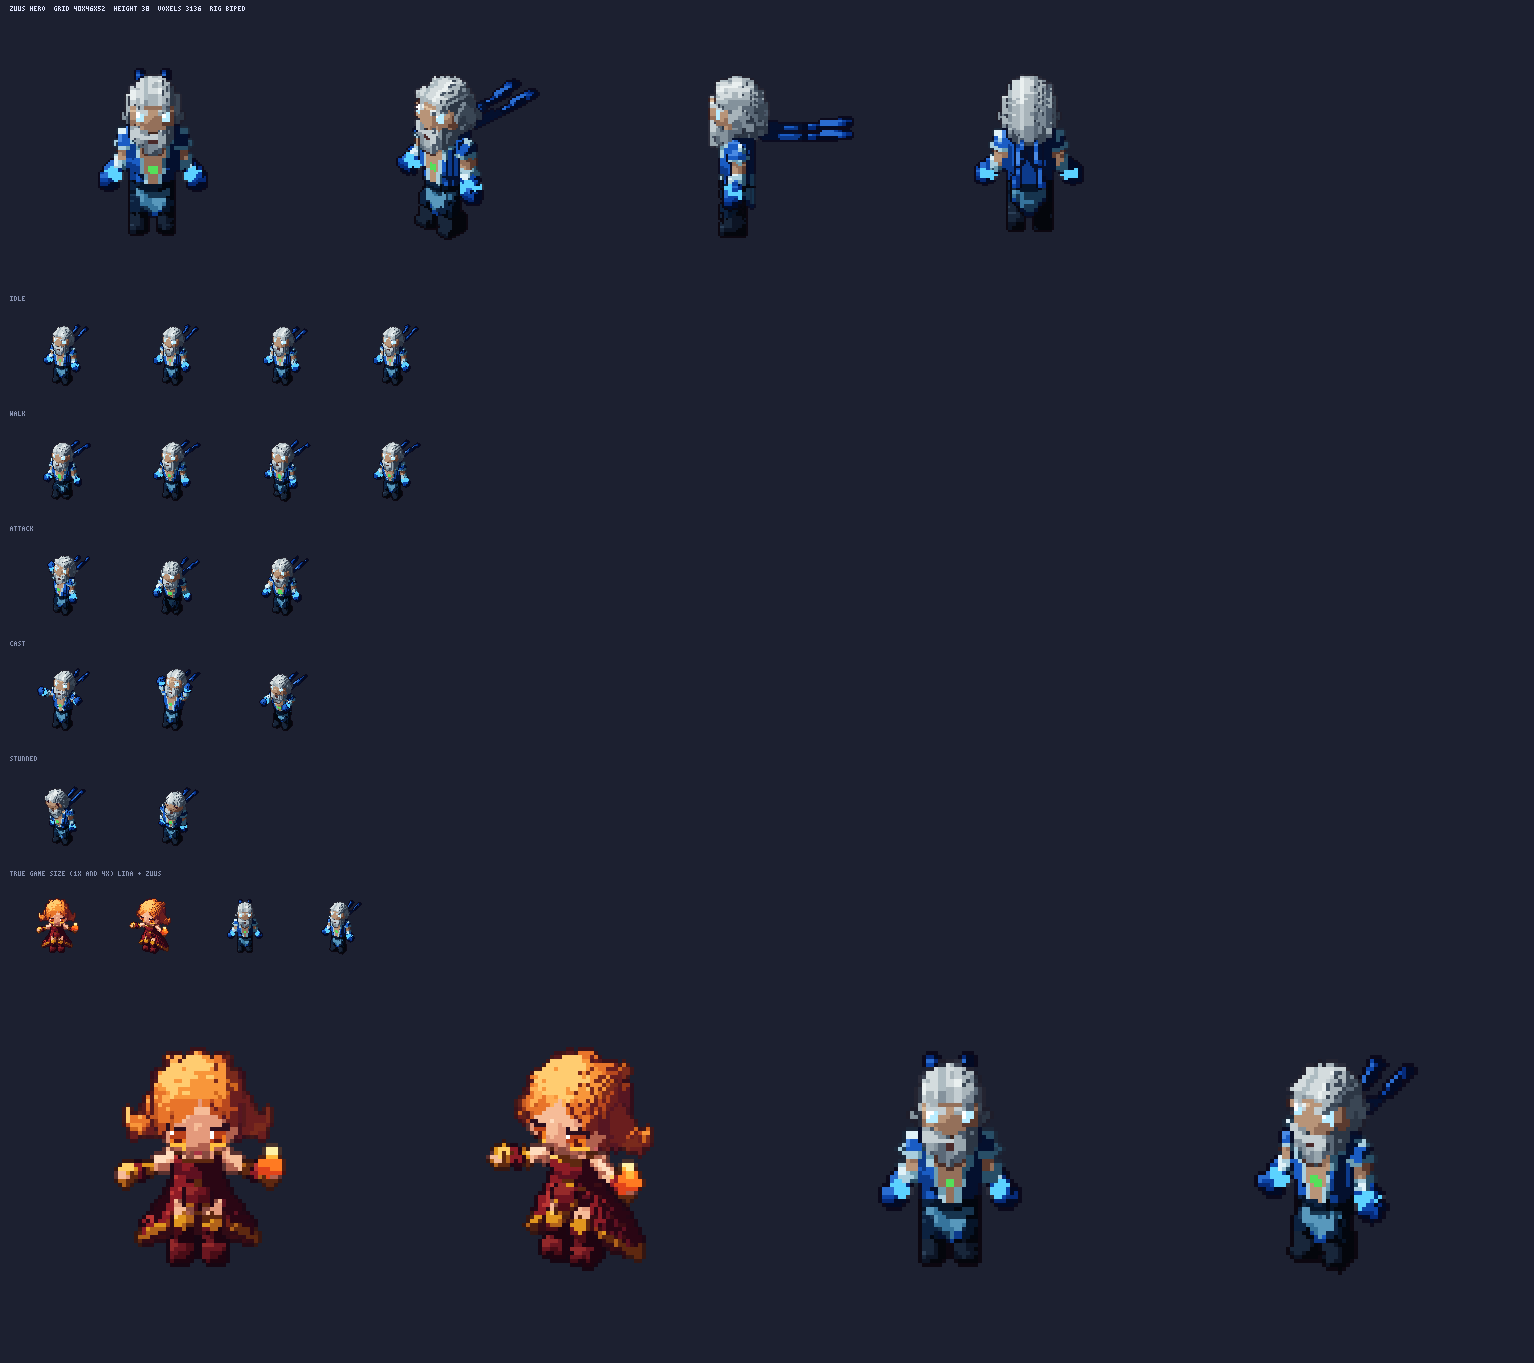
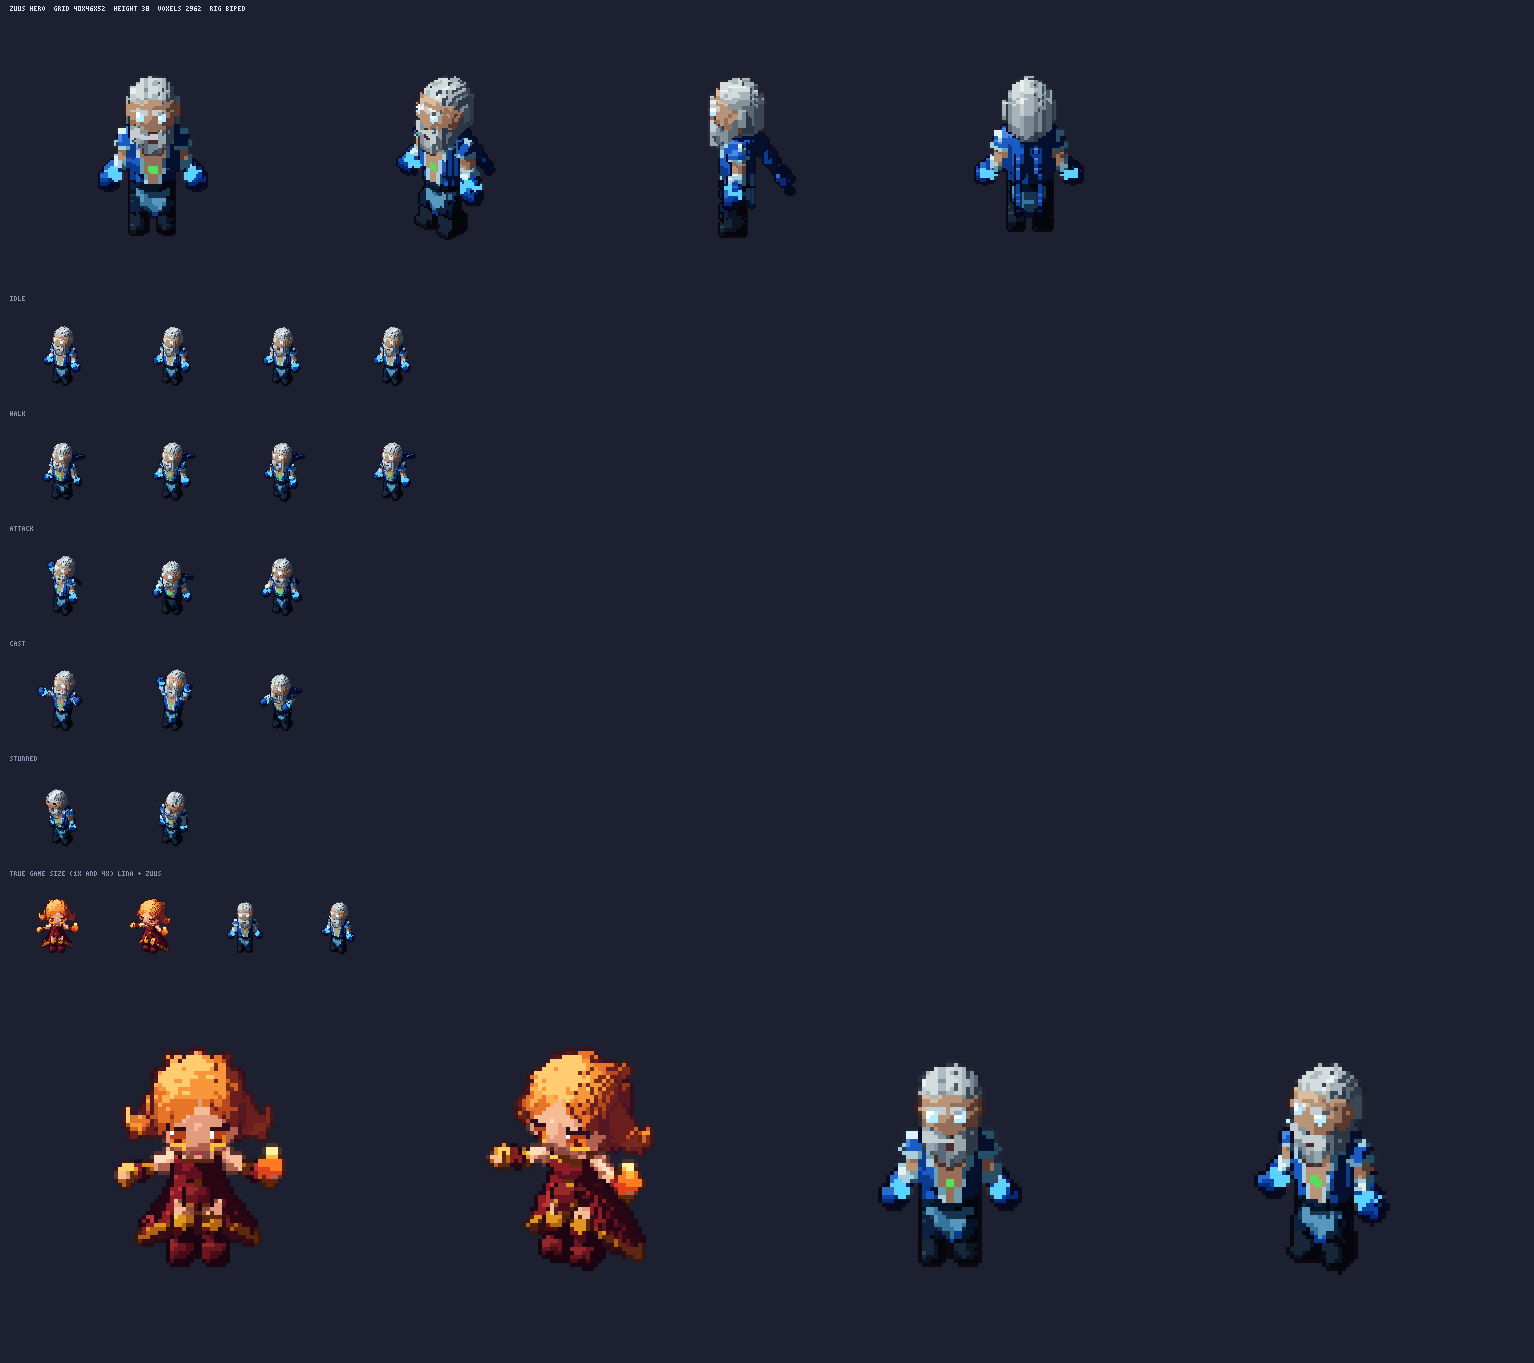
Zeus review fixes: streamers drape back and down (lift to trail in motion), thinner hair cap with a wider face window, both eyes visible in the portrait; feet() resolves a function material

diff --git a/client/src/art/portraits/zuus.js b/client/src/art/portraits/zuus.js
@@ -1,7 +1,7 @@
 // GENERATED by tools/vox/portrait.mjs (zuus) -- do not edit by hand. Voxel HUD portrait 32x42 (= the 32x42 the HUD shows, 1 art px = 1 u), opaque.
 // Loaded by client/src/art/portraits.js, which swaps it into the sheet's 'portrait' frame unless ?vox=0.
 export default {
-  pal: { '0':'#0b091b', '1':'#04102e', '2':'#242431', '3':'#7a8894', '4':'#a8b4ba', '5':'#48a4c7', '6':'#5cd2ff', '7':'#c4ced2', '8':'#1e1d2a', '9':'#b8ecff', '!':'#121415', '#':'#181e21', '$':'#23343b', '%':'#5a3a2e', '&':'#0c3a8c', '(':'#94705a', ')':'#284e66', '*':'#98a6ae', '+':'#5a6876', ',':'#3a4654', '-':'#4a5868', '/':'#6c9cb0', ':':'#1a5cc4', ';':'#1c2839', '<':'#345866', '=':'#c8d8ce', '>':'#b89478', '?':'#321e20', '@':'#0c0c20', 'A':'#a8cede', 'B':'#506986', 'C':'#092d6d', 'D':'#2b2c3a', 'E':'#aab7b8', 'F':'#ddd8bd', 'G':'#2c3644', 'H':'#02081c', 'I':'#a9beed', 'J':'#97a4a6', 'K':'#849fa6', 'L':'#54e05a', 'M':'#462d24', 'N':'#6e8ca5', 'O':'#090715', 'P':'#8a9698', 'Q':'#9c8976', 'R':'#6796f1', 'S':'#093583', 'T':'#1f3d50', 'U':'#97afe0', 'V':'#ffffff', 'W':'#7a8789', 'X':'#9bc2dd', 'Y':'#aeafce', 'Z':'#020a24', '[':'#030c24', ']':'#05101f', '^':'#84929c', '_':'#dae6db', 'a':'#b4c7f6', 'b':'#8db4d4', 'c':'#4a2a2a', 'd':'#dff0e6', 'e':'#5988e7', 'f':'#456ab4', 'g':'#5072b6', 'h':'#22232f', 'i':'#090919', 'j':'#547a89', 'k':'#02050b', 'l':'#e3efe3', 'm':'#becbc9', 'n':'#eaf0f0', 'o':'#3b313c', 'p':'#3e261e', 'q':'#afc8fb', 'r':'#0c44a8', 's':'#7997ac', 't':'#2b2d3c', 'u':'#485f7c', 'v':'#3e5269', 'w':'#384a61', 'x':'#697a7b', 'y':'#09050d', 'z':'#05215e', '{':'#010308', '|':'#99b0e2', '}':'#a6b5b5', '~':'#b6c9f8', '¡':'#abc0ef', '¢':'#b2c5f4', '£':'#93aadc', '¤':'#5c8be8', '¥':'#4d7cbe', '¦':'#5c8ae5', '§':'#062a78', '¨':'#a3b8e8', '©':'#b1cafb', 'ª':'#b0c9fb', '«':'#02060e', '¬':'#4569af', '®':'#072862', '¯':'#367a94', '°':'#2f4164', '±':'#354043', '²':'#06040a', '³':'#334e82', '´':'#060510' },
+  pal: { '0':'#4a5868', '1':'#3a4654', '2':'#242431', '3':'#321e20', '4':'#48a4c7', '5':'#a8b4ba', '6':'#5cd2ff', '7':'#345866', '8':'#9c8976', '9':'#ddd8bd', '!':'#121415', '#':'#181e21', '$':'#23343b', '%':'#5a3a2e', '&':'#94705a', '(':'#0c3a8c', ')':'#284e66', '*':'#98a6ae', '+':'#5a6876', ',':'#6c9cb0', '-':'#04102e', '/':'#b89478', ':':'#1c2839', ';':'#0b091b', '<':'#c4ced2', '=':'#a8cede', '>':'#506986', '?':'#092d6d', '@':'#02081c', 'A':'#2b2c3a', 'B':'#97a4a6', 'C':'#1e1d2a', 'D':'#0c0c20', 'E':'#1a5cc4', 'F':'#2c3644', 'G':'#090715', 'H':'#aab7b8', 'I':'#a9beed', 'J':'#ffffff', 'K':'#b8ecff', 'L':'#c8d8ce', 'M':'#849fa6', 'N':'#54e05a', 'O':'#462d24', 'P':'#6e8ca5', 'Q':'#020a24', 'R':'#093583', 'S':'#1f3d50', 'T':'#7a8894', 'U':'#6796f1', 'V':'#9bc2dd', 'W':'#aeafce', 'X':'#030c24', 'Y':'#05101f', 'Z':'#dae6db', '[':'#b4c7f6', ']':'#97afe0', '^':'#7a8789', '_':'#4a2a2a', 'a':'#dff0e6', 'b':'#8db4d4', 'c':'#5988e7', 'd':'#456ab4', 'e':'#5072b6', 'f':'#22232f', 'g':'#547a89', 'h':'#02050b', 'i':'#aabfee', 'j':'#b6c9f8', 'k':'#3e261e', 'l':'#afc8fb', 'm':'#0c44a8', 'n':'#7997ac', 'o':'#485f7c', 'p':'#3e5269', 'q':'#384a61', 'r':'#090919', 's':'#697a7b', 't':'#09050d', 'u':'#05215e', 'v':'#010308', 'w':'#abc0ef', 'x':'#84929c', 'y':'#e3efe3', 'z':'#b0c9fb', '{':'#2b2d3c', '|':'#02060e', '}':'#4569af', '~':'#072862', '¡':'#367a94', '¢':'#2f4164', '£':'#354043', '¤':'#06040a', '¥':'#334e82', '¦':'#060510' },
   face: [4, 11, 24, 24],
   rows: [
     '!!!!!!!!!!!#!#!#!#######!#!#!!!!',
@@ -10,41 +10,41 @@ export default {
     '!!!!#!#!######$#$#$#$#$#$######!',
     '!!!!!!!#!######$#$#$#$#$######!#',
     '!!!!!!#!####$#$$$$$$$$$$$#$#####',
-    '!!!!!#!#!####88222D$$$$$$$#$####',
-    '!!!!#!####$#8|}EEElD<$<$<$$#$###',
-    '!!!!!!!#!##22U^^+E_DD<$<$$$$####',
-    '!!#!#!####2I4443+EEml22$<$$$$#$#',
-    '!!!!!#!##DI44443+33EmP_2$<$$#$##',
-    '!!!!####D~n77433+33,-PP_2$$$$#$#',
-    '!!!!!#!#2an77333+3%%-,P=8$$$#$##',
-    '!!#!#!#2¡47*-3,3(%%%%,P=8$<$$#$#',
-    '!!!!!#!2I47((*****(%%-JF?<$$#$##',
-    '!!!!##2I444((VV9(((%%%9F?$$$$#$#',
-    '!!!!!#!2I44>(VV9(((%%%99o$$$####',
-    '!!#!#!#2U33>(999((%%%%99o$$$$#$#',
-    '!!!!!#2I^+(>((((((%%%%QF8$#$#$##',
-    '!!!!#!8U++>(((((((%%%%WQ=8$#$###',
-    '!!!!!!8U++>((*((%%%%%%W=8$#$####',
-    '!!!000D¢£+7**7*+++pp-JW=8#$#####',
-    '!!0¤¥b0@a-7**7****----J=8$####!#',
-    '!!!00¦§::¨a7******----J=;######!',
-    '!!!!!;©:RR77***+++ccc-J=d@##!#!#',
-    '!!!!!;ªAA::*-**G++,,,-W=BX@##!#!',
-    '!!!!!@R:&:&/**GG++,,,-G)BX@#!#!!',
-    '!!!!@R::&&&//*GG++,,,-)1BBX@#!#!',
-    '!!!!;R:&&&&&&/%%+G,,,J)1)Kd;!!!!',
-    '!!!;qAA////&&/%%%,,,%%)1)F?!!!!!',
-    '!!!!;?Y/(1&&&/%%%,,%%%)1QF?!!!!!',
-    '!!!!?Y>((1&&&/%%%%%%%)B1QF?!#!!!',
-    '!!!!?Y>((&&&&&))%%%%%)B1QF;!!!!!',
-    '!!!!;Y>>(&&&&&))%%%%%)B1KKd0!!!!',
-    '!!!;qAA//&&&&&))%LL%%)B1)KKb0!!!',
-    '!!!0eA///&&&&&))%LL%%)11))K6b0!!',
-    '!!00eA/))&&&&&))%LL%))11)Z66600!',
-    '!0fr665Z)1[&&&[))%M))1st66566uN0',
-    '!OeS656N@g1C&C1T)M%T)vXh6565ZwuN',
-    '!O5SS555ig[CCC[jjMMTTvsih555HHwN',
-    '0fSSr555tigC&CCj/MMT«xy!!O¬HZHNO',
-    'Of®zzH¯h!y°k]]{]]k{k±x²!!O³HHN´!'
+    '!!!!!#!#!####$#2$$$$$$$$$$#$####',
+    '!!!!#!####$#$$2w222$7$7$7$$#$###',
+    '!!!!!!!#!##222iHHHZA$7$7$$$$####',
+    '!!#!#!####2i55x+5HHyA27$7$$$$#$#',
+    '!!!!!#!##AI55555+THBBZ27$7$$#$##',
+    '!!!!####Aj<555TT&&&&8Z377$$$$#$#',
+    '!!!!!#!#Aj</55T&&&&%8893$$$$#$##',
+    '!!#!#!#A[<<//&&&&&&%%8893$7$$#$#',
+    '!!!!!#!2I5/&&*****&0008937$$#$##',
+    '!!!!###2I//&&JJK&&&%%J893$$$$#$#',
+    '!!!!!#!2I///&JJK&&&%%J893$$$####',
+    '!!#!#!#2I&&/&KKK&&%%%K893$$$$#$#',
+    '!!!!!#!2I+&/&&&&&&%%%%893$#$#$##',
+    '!!!!#!#C]+/&&&&&&&%%%%^93$$#$###',
+    '!!!!!!!C]+/&&*&&%%%%%%LC#$#$####',
+    '!!!!!!#C]+<**<*+++kk0B^LC#$#####',
+    '!!!!!!!#CA[**<****0000BLC$####!#',
+    '!!!!#!#!#D[<******0000BL:######!',
+    '!!!!!!:::U<<***+++___0BLaD##!#!#',
+    '!!!!!:z==EE*0**F++1110^L>VD##!#!',
+    '!!!!!DUE(E(,**FF++1110F)>VD#!#!!',
+    '!!!!DUEE(((,,*FF++1110)->>VD#!#!',
+    '!!!!:UE((((((,%%+F111B)-)Ma:!!!!',
+    '!!!:l==,,,,((,%%%111%%)-)93!!!!!',
+    '!!!!:3W,&-(((,%%%11%%%)-893!!!!!',
+    '!!!!3W/&&-(((,%%%%%%%)>-893!#!!!',
+    '!!!!3W/&&((((())%%%%%)>-89:!!!!!',
+    '!!!!:W//&((((())%%%%%)>-MMa;!!!!',
+    '!!!:l==,,((((())%NN%%)>-)MMb;!!!',
+    '!!!;c=,,,((((())%NN%%)--))M6b;!!',
+    '!!;;c=,))((((())%NN%))--)Q666;;!',
+    '!;dm664Q)-X(((X))%O))-n{66466oP;',
+    '!GcR646PQe-?(?-S)O%S)pVf6464QqoP',
+    '!G4RR444@eX???XggOOSSpnrf444@@qP',
+    ';dRRm444bre?(??g,OOS|st!!G}@Q@PG',
+    'Gd~uu@¡fGt¢hYYvYYhvh£s¤!!G¥@@P¦!'
   ]
 };

diff --git a/shared/vox/heroes/zuus.js b/shared/vox/heroes/zuus.js
@@ -47,7 +47,7 @@ export function build(p = {}) {
   // ---- legs: baggy dark navy trousers, dark boots with a blue cuff
   for (const k of ['R', 'L']) {
     const f = J['foot' + k];
-    feet(v, f, 'boot', M.boot, { hw: 2, front: 3.6, back: 1.8, h: 3.6 });   // feet() takes a plain id (a function is not resolved)
+    feet(v, f, 'boot', M.boot, { hw: 2, front: 3.6, back: 1.8, h: 3.6 });
     limb(v, [J['ankle' + k], J['knee' + k], J['hip' + k]], [1.7, 2, 2.1], M.navy);
     band(v, J['ankle' + k], J['knee' + k], 0.05, 0.3, 1.9, M.boot);
   }
@@ -89,34 +89,35 @@ export function build(p = {}) {
   ell(v, Th, [hx, hy, hz], SKULL, M.skin);
   const strand = (px) => [M.hair, M.hairL, M.hair, M.hairD][((Math.floor((px - hx + 0.5) / 1.5) % 4) + 4) % 4];
   const line = px => hz + 4.8 - Math.min(2.4, Math.abs(px - hx) * 0.5);           // hairline: high forehead, receding at the temples
-  const face = (px, py, pz) => py < hy - 1 + Math.max(0, hz - pz) * 0.5 && pz < line(px);
-  ell(v, Th, [hx, hy + 1, hz + 0.6], [5.9, 6, 6.6], strand, (px, py, pz) => !face(px, py, pz) && pz > hz - 1.6 && py > hy - 3.6);
-  ell(v, Th, [hx, hy + 3.6, hz - 1.6], [5.6, 4, 5.6], strand, (px, py, pz) => py > hy + 1.6);        // the mane behind, to the nape
-  for (const s of [-3.4, -1.2, 1.2, 3.4]) {                                                          // swept-back locks, tips flaring back
-    cap(v, Th, [hx + s * 0.8, hy - 2.4, hz + 5 - Math.abs(s) * 0.3], [hx + s * 1.25, hy + 7.4, hz - 1.4 - Math.abs(s) * 0.4], 1.9, strand, 0.6);
+  const face = (px, py, pz) => py < hy + 0.4 + Math.max(0, hz - pz) * 0.5 && pz < line(px);   // wide: forehead, temples, cheeks
+  ell(v, Th, [hx, hy + 1.2, hz + 0.6], [5.8, 5.7, 6.4], strand, (px, py, pz) => !face(px, py, pz) && (pz > hz + 2.4 || py > hy + 0.6));   // a thin cap, sides only behind the temples
+  ell(v, Th, [hx, hy + 3.4, hz - 1.4], [5, 3.4, 5], strand, (px, py, pz) => py > hy + 1.8);        // the mane behind, to the nape
+  for (const s of [-2.6, 0, 2.6]) {                                                          // swept-back locks, tips flaring back
+    cap(v, Th, [hx + s * 0.8, hy - 2.4, hz + 5 - Math.abs(s) * 0.3], [hx + s * 1.2, hy + 6.6, hz - 0.8 - Math.abs(s) * 0.4], 1.4, strand, 0.5);
   }
   // beard: a full white beard from the cheeks to the chest, pointed at the bottom; moustache over the mouth
   const beard = (px, py, pz) => { const k = Math.floor((px - hx + 0.5) / 2); return [M.hair, M.hairL, M.hairD][((k % 3) + 3) % 3]; };
   ell(v, Th, [hx, hy - 1.6, hz - 4.4], [5, 4, 4.4], beard, (px, py, pz) => py < hy + 1.6 && pz < hz - 3.8 + Math.abs(px - hx) * 0.55);
   ell(v, Th, [hx, hy - 2.6, hz - 7.2], [3.4, 2.8, 3.2], beard, (px, py, pz) => pz > hz - 10.2 + Math.abs(px - hx) * 0.9);   // the point
-  for (const s of [-1, 1]) cap(v, Th, [hx + s * 4.8, hy + 0.2, hz - 0.2], [hx + s * 5.6, hy + 0.6, hz - 2.4], 1.2, M.hairD);   // sideburns
+  for (const s of [-1, 1]) cap(v, Th, [hx + s * 4.8, hy + 0.2, hz - 0.2], [hx + s * 5.4, hy + 0.2, hz - 2.6], 0.9, M.hairD);   // sideburns
 
   // ---- face, painted on the front-most voxels (follows the posed head): heavy white brows, pale glowing eyes, nose, moustache
   const hc = J.head, ox = Math.round(hc[0] - cx), oz = Math.round(hc[2] - hz), ez = Math.round(hz - 1) + oz;
-  decal(v, [-4, -3, -2, 1, 2, 3].map(x => [cx + x + ox, ez + 2]), M.hairL);                  // brows
-  eyes(v, { at: [[cx - 4 + ox], [cx + 2 + ox]], z: ez, style: 'dot', state: p.eyes }, M);
+  decal(v, [-4, -3, -2, 0, 1, 2].map(x => [cx + x + ox, ez + 2]), M.hairL);                  // brows
+  eyes(v, { at: [[cx - 4 + ox], [cx + 1 + ox]], z: ez, style: 'dot', state: p.eyes }, M);
   decal(v, [[cx + ox - 1, ez - 1], [cx + ox, ez - 1], [cx + ox - 1, ez - 2], [cx + ox, ez - 2]], M.skin);   // nose
   decal(v, [[cx + ox - 1, ez - 3], [cx + ox, ez - 3]], M.skinD);
   decal(v, [-3, -2, -1, 0, 1, 2].map(x => [cx + x + ox, ez - 4]), M.hairL);                   // moustache
   mouth(v, [[cx - 1 + ox, ez - 5], [cx + ox, ez - 5]], M.mouth);
 
-  // ---- streamers: two long blue ribbons from the nape trailing back near level (they must not read as antennae from the front), swept further back in motion
+  // ---- streamers: two long blue ribbons from the nape draping back and down over the shoulder blades, lifting to trail behind in motion
   const n = J.neck;
   for (const s of [-1, 1]) {
-    const a = [n[0] + s * 1.4, n[1] + 2.6, n[2] + 2], b = [n[0] + s * (2.4 + trail), n[1] + 15 + trail * 4, n[2] + 1.4 + trail];
-    const c = [n[0] + s * (3 + trail), n[1] + 25 + trail * 2, n[2] + 2.4 - trail];
-    v.capsule(a, b, 0.95, M.vest, 0.8);
-    v.capsule(b, c, 0.8, M.glove, 0.7);
+    const a = [n[0] + s * 1.4, n[1] + 3, n[2] + 1.4], b = [n[0] + s * 2, n[1] + 6 + trail * 3, n[2] - 3 + trail * 3];
+    const c = [n[0] + s * 2.4, n[1] + 9 + trail * 7, n[2] - 8 + trail * 6], d = [n[0] + s * 2.8, n[1] + 12 + trail * 11, n[2] - 13 + trail * 8];
+    v.capsule(a, b, 0.9, M.vest, 0.85);
+    v.capsule(b, c, 0.85, M.vest, 0.75);
+    v.capsule(c, d, 0.75, M.glove, 0.6);
   }
   return v;
 }

diff --git a/shared/vox/parts.js b/shared/vox/parts.js
@@ -76,7 +76,7 @@ export function feet(v, f, type, m, o = {}) {
       if (px < fx - hw || px > fx + hw || py < by - front || py > by + back || qz < 0 || qz > h) return;
       if (py < by - toeY && qz > toeZ) return;                 // rounded toe
       if (py < by - tipY && Math.abs(px - fx) > tipW) return;
-      return m;
+      return typeof m === 'function' ? m(px, py, pz) : m;
     });
   } else if (type === 'bare') {
     v.ellipsoid(fx, by - (o.front ?? 1.2), bz + 0.9, o.hw ?? 1.4, o.len ?? 2.4, 1.1, m);
